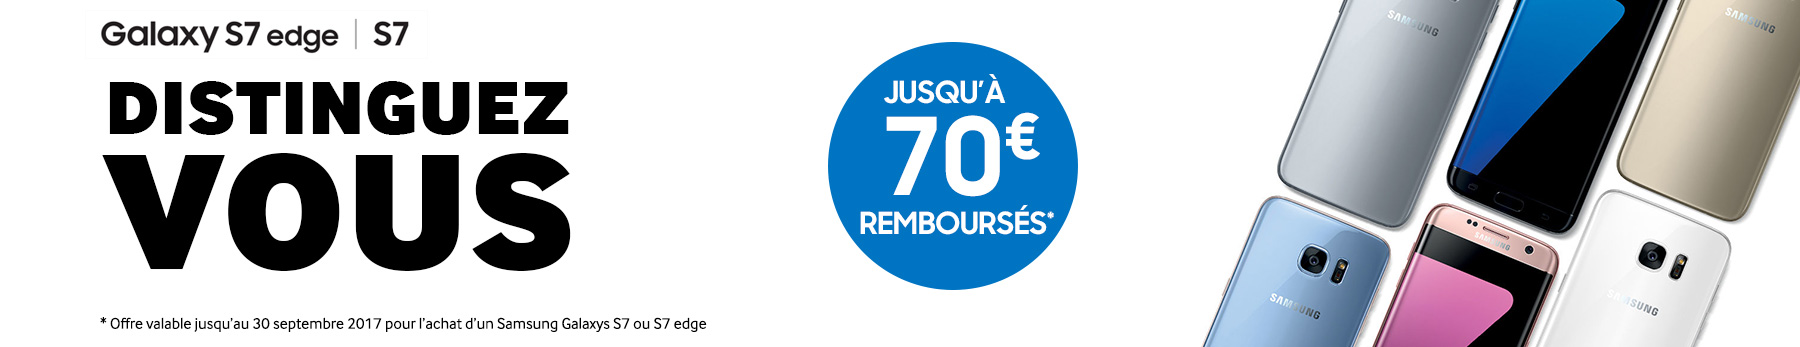
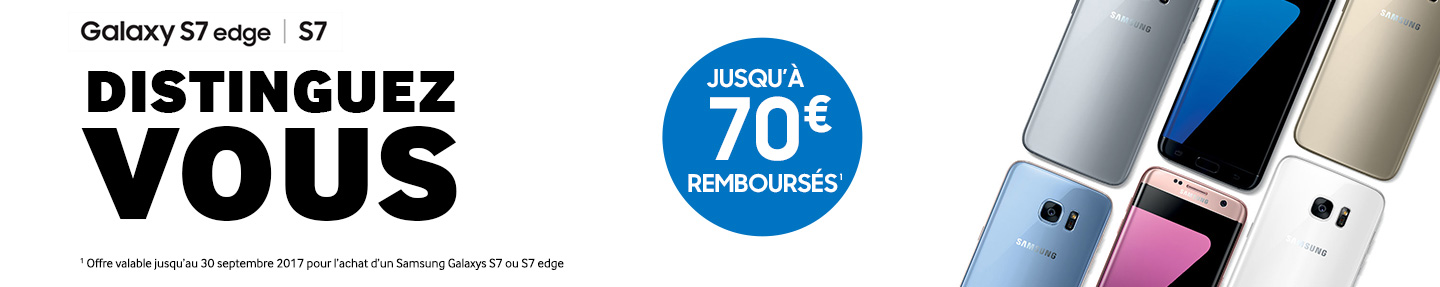
new kv

diff --git a/app/scripts/main-shop.js b/app/scripts/main-shop.js
@@ -14082,11 +14082,11 @@ var PRODUCT_DATA = {
   'model': ['Galaxy S7', 'S7 Edge'],
   'rental': ['true', 'true', 'false'],
   'memory': [['32Go'], ['32Go'], ['32Go']],
-  'color': [['Noir', 'Blanc', 'Or', 'Rose', 'Bleu', 'Argent'],  [ 'Noir', 'Blanc', 'Or', 'Rose', 'Bleu' ]],
-  'colorCode': [['#000', 'white', '#CAAF80', '#FFC6F4', '#87B1FD','#D8D8D8'], ['#000', 'white', '#CAAF80', '#FFC6F4', '#87B1FD']],
+  'color': [['Noir', 'Blanc', 'Or', 'Rose', 'Argent'],  [ 'Noir', 'Blanc', 'Or', 'Rose', 'Bleu', 'Argent' ]],
+  'colorCode': [['#000', 'white', '#CAAF80', '#FFC6F4','#D8D8D8'], ['#000', 'white', '#CAAF80', '#FFC6F4', '#87B1FD','#D8D8D8']],
   //Sku S7 - S7 edge - depends on color
-  'sku': ['SM-G930FZKAXEF', 'SM-G930FZWAXEF', 'SM-G930FZDAXEF', 'SM-G930FEDAXEF', 'SM-G930FZBAXEF', 'SM-G930FZSAXEF',/* */'SM-G935FZKAXEF','SM-G935FZWAXEF','SM-G935FZDAXEF','SM-G935FEDAXEF', 'SM-G935FZBAXEF'],
-  'sku2':[['SM-G930FZKAXEF', 'SM-G930FZWAXEF', 'SM-G930FZDAXEF', 'SM-G930FEDAXEF', 'SM-G930FZBAXEF', 'SM-G930FZSAXEF'], ['SM-G935FZKAXEF','SM-G935FZWAXEF','SM-G935FZDAXEF', 'SM-G935FEDAXEF','SM-G935FZBAXEF']],
+  'sku': ['SM-G930FZKAXEF', 'SM-G930FZWAXEF', 'SM-G930FZDAXEF', 'SM-G930FEDAXEF', 'SM-G930FZSAXEF',/* */'SM-G935FZKAXEF','SM-G935FZWAXEF','SM-G935FZDAXEF','SM-G935FEDAXEF', 'SM-G935FZBAXEF','SM-G935FZSAXEF'],
+  'sku2':[['SM-G930FZKAXEF', 'SM-G930FZWAXEF', 'SM-G930FZDAXEF', 'SM-G930FEDAXEF', 'SM-G930FZSAXEF'], ['SM-G935FZKAXEF','SM-G935FZWAXEF','SM-G935FZDAXEF', 'SM-G935FEDAXEF','SM-G935FZBAXEF','SM-G935FZSAXEF']],
   'pack': [
             [
              /* ['Pad à induction STAND','EP-NG930BBEGWW','phrase super décrivant le pack pad'],
@@ -14182,14 +14182,14 @@ var PRICE_INFO = [
                 'memory': '32Go',
                 'color': 'Rose'
             }],
-            [{
+            /*[{
                 // Galaxy S7 Bleu 32Go
                 'model': 'Galaxy S7',
                 'modelCode': 'SM-G930FZBAXEF',
                 'price': '599.00',
                 'memory': '32Go',
                 'color': 'Bleu'
-            }],
+            }],*/
             [{
                 // Galaxy S7 Argent 32Go
                 'model': 'Galaxy S7',
@@ -14244,15 +14244,15 @@ var PRICE_INFO = [
                 'price': '699.00',
                 'memory': '32Go',
                 'color': 'Bleu'
-            }]/*,
+            }],
             [{
                 // Galaxy S7 Edge Argent 32Go
                 'model': 'Galaxy S7 Edge',
-                'modelCode': 'SM-G930FZSAXEF',
+                'modelCode': 'SM-G935FZSAXEF',
                 'price': '699.00',
                 'memory': '32Go',
                 'color': 'Argent'
-            }]*/
+            }]
         ]
     ],
     /*[ // model choice

diff --git a/app/index.html b/app/index.html
@@ -124,13 +124,13 @@
 					</div>-->
 					<div class="kv-image no-up2you">
 						<span>
-							<img src="/images/blank.gif" data-img-pc="/images/gs7-header.desk.jpg" data-img-mo="/images/gs7-header.palm.jpg" alt="Black Galaxy S7 back side view and Galaxy S7 Edge front view" />
+							<img src="/images/blank.gif" data-img-pc="/images/gs7-header.desk.jpg" data-img-mo="/images/gs7-header.palm.jpg" alt="Galaxy S7 | S7 edge, distinguez vous, jusqu'à 70€ remboursés" />
 						</span>
 					</div>
 					<div class="kv-image up2you">
 						<span>
-							<a href="//www.samsung.com/fr/up2you/" target="_blank" data-omni-type="microsite" data-omni="galaxy-s8:shop:up2you-banner">
-								<img src="/images/blank.gif" data-img-pc="/images/up2you-header.desk.jpg" data-img-mo="/images/up2you-header.palm.jpg" alt="Black Galaxy S7 back side view and Galaxy S7 edge front view" />
+							<a href="//www.samsung.com/fr/up2you/" target="_blank" data-omni-type="microsite" data-omni="galaxy-s7:shop:up2you-banner">
+								<img src="/images/blank.gif" data-img-pc="/images/kv-image-s7-up2you-odr.jpg" data-img-mo="/images/kv-image-s7-up2you-odr-mo.jpg" alt="Up2you, la liberté ne s'achète pas. 20€/mois pendant 24 mois après un premier versement de 99€" />
 								<!-- <img src="/images/blank.gif" data-img-pc="/images/kv-image-s8-up2you-odr.jpg" data-img-mo="/images/kv-image-s8-up2you-odr-mo.jpg" alt="Black Galaxy S8 back side view and Galaxy S8+ front view" /> -->
 								 <div class="up2you__home__intro__pict"><a href="http://www.samsung.com/fr/up2you/" target="_blank" onclick="sendClickCode('microsite_action', 'galaxy2016:s7:order:banniere-up2you');">&nbsp;</a></div>
 							</a>

diff --git a/app/styles/style.scss b/app/styles/style.scss
@@ -81,7 +81,7 @@
 .pre-order .kv-wrap .title-box .desc {margin-top:7px; line-height:33px; font-size:16px; font-family:'SamsungOne';font-weight:400;}
 .pre-order .kv-wrap .kv-image {position:absolute; top:0; right:0; text-align:right; width:100%;}
 .pre-order .kv-wrap .kv-image span {display:inline-block; /*width:800px;*/ width:100%; height:286px;}
-.pre-order .kv-wrap .kv-image span img {width:100%; max-width:100%;height:366px;}
+.pre-order .kv-wrap .kv-image span img {width:100%; max-width:100%;}
 
 
 /* product-wrap */
